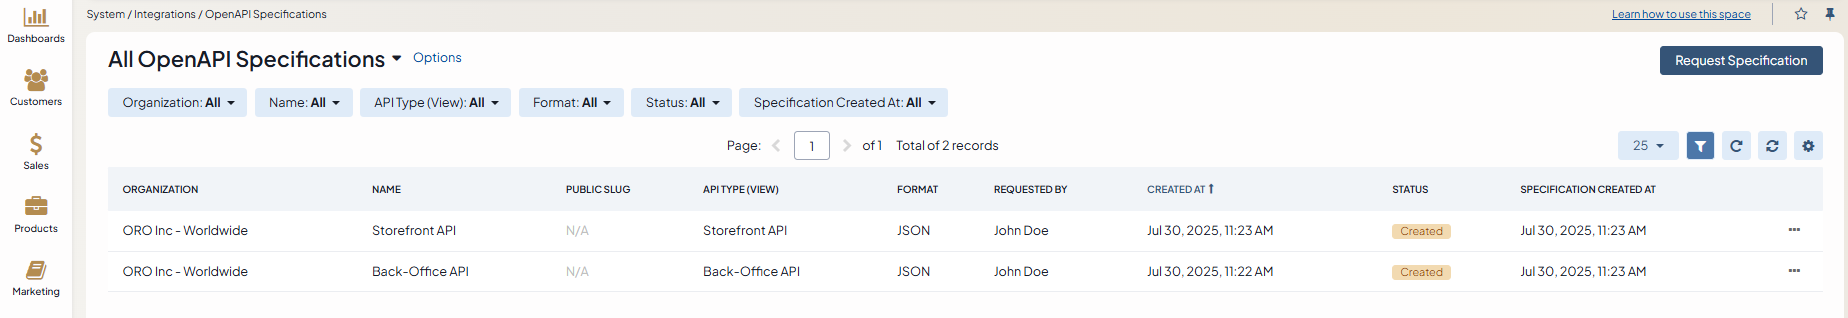
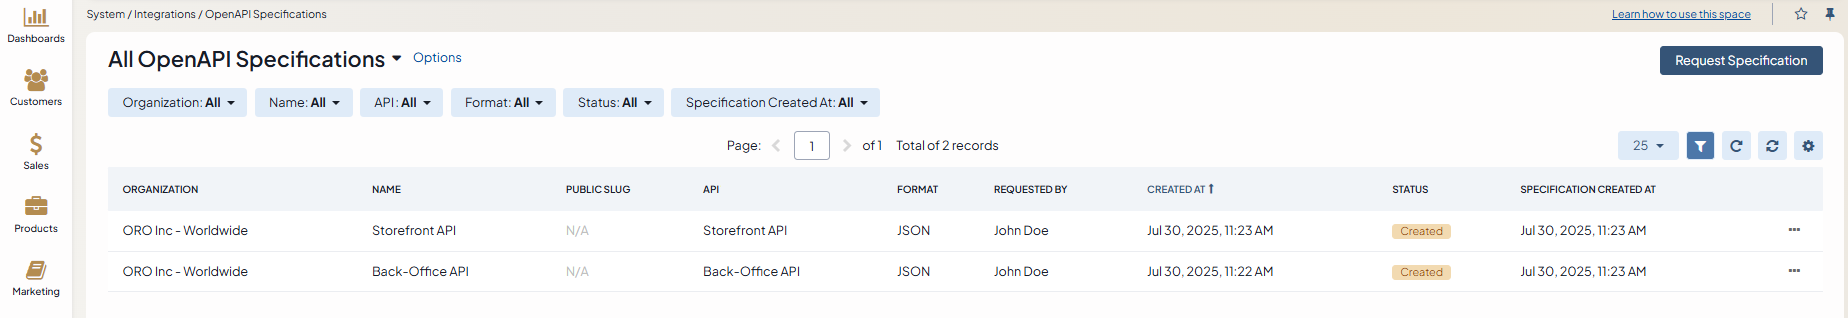
BAP-23281: Rename "API Type (View)" field to "API" for OpenAPI specification management (#43960)

Changed region(s): [[0.2159, 0.2547, 0.5244, 0.3679], [0.3701, 0.566, 0.4318, 0.6226]]

diff --git a/user/back-office/system/integrations/openapi-specifications/index.rst b/user/back-office/system/integrations/openapi-specifications/index.rst
@@ -19,7 +19,7 @@ In order to create a new OpenAPI specification:
    * **Public Slug** --- The URL slug for downloading the OpenAPI specification without authorization. When the slug is not specified the unauthorized access is not permitted.
    * **Requested By** --- A user who requested the OpenAPI specification.
    * **Format** --- The format in which the OpenAPI specification should be created, e.g. JSON or YAML.
-   * **API Type (View)** --- The API type for which the OpenAPI specification should be created, e.g. "Back-Office API" or "Storefront API".
+   * **API** --- The API for which the OpenAPI specification should be created, e.g. "Back-Office API" or "Storefront API".
    * **Entities** --- The list of entities for which the OpenAPI specification should be created. When no entity is specified, the specification is created for all entities.
    * **Server URLs** --- The list of server URLs that should be added to the OpenAPI specification.
   
